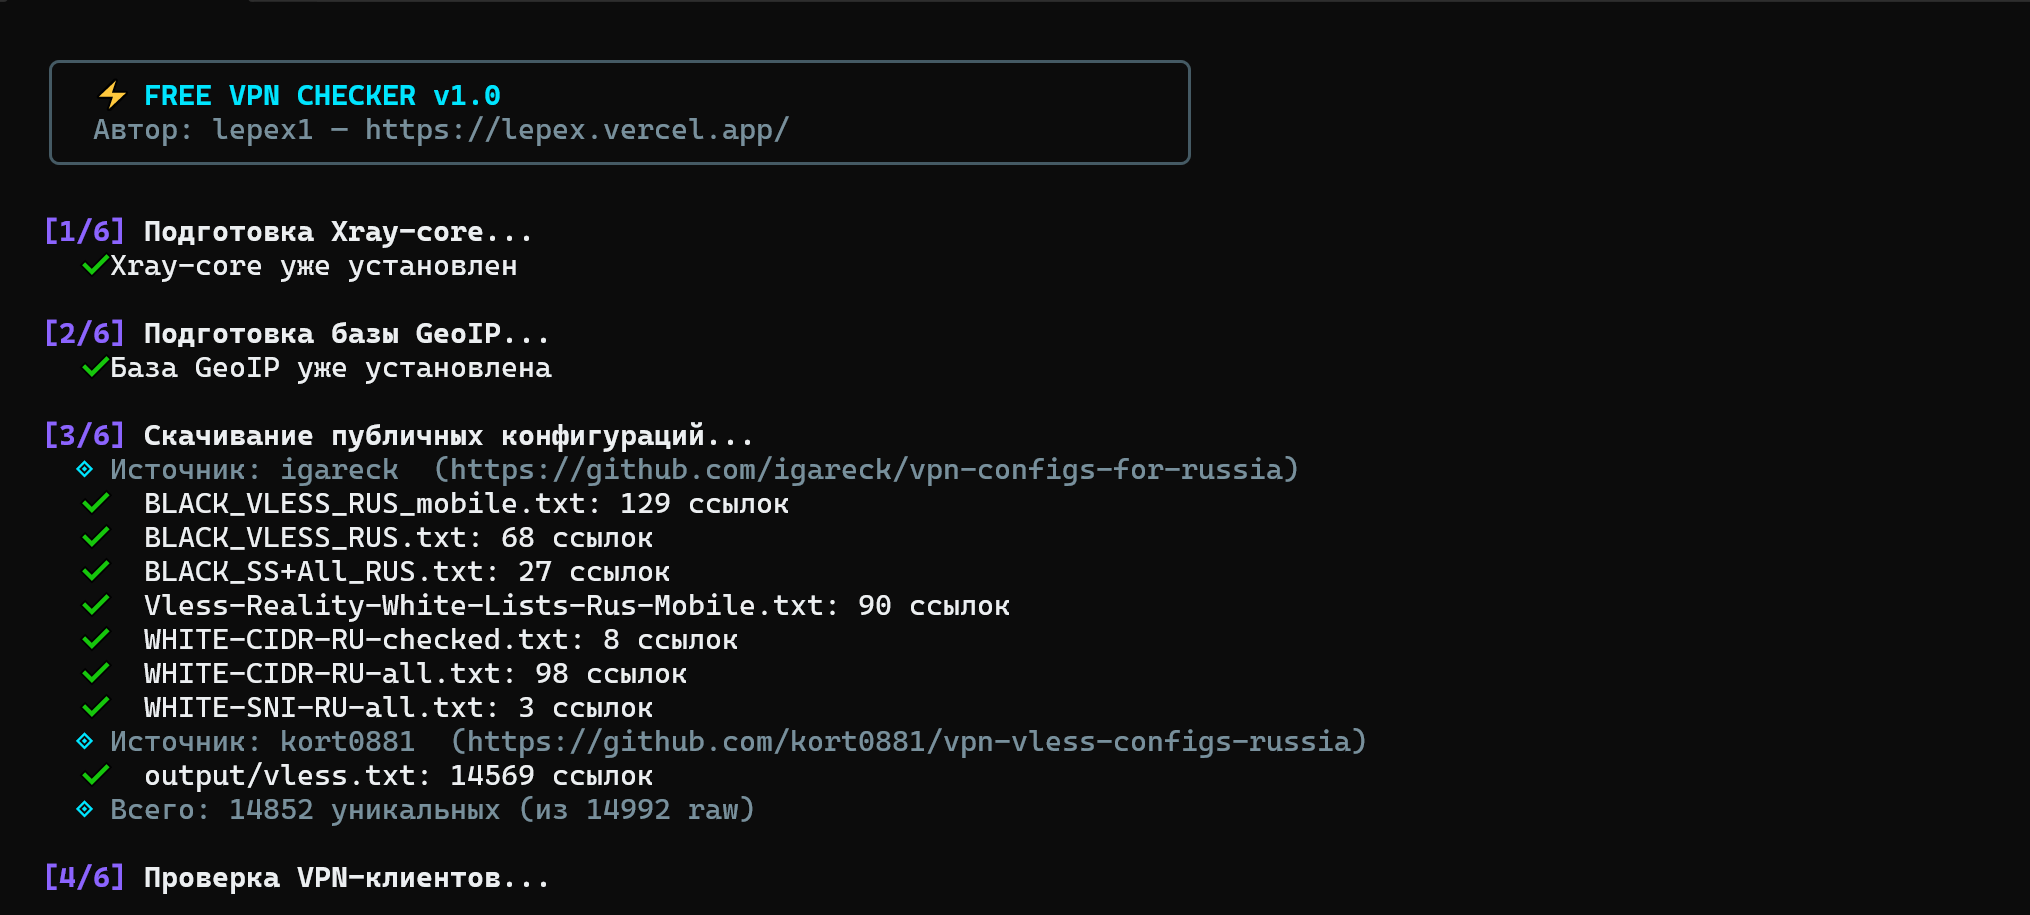
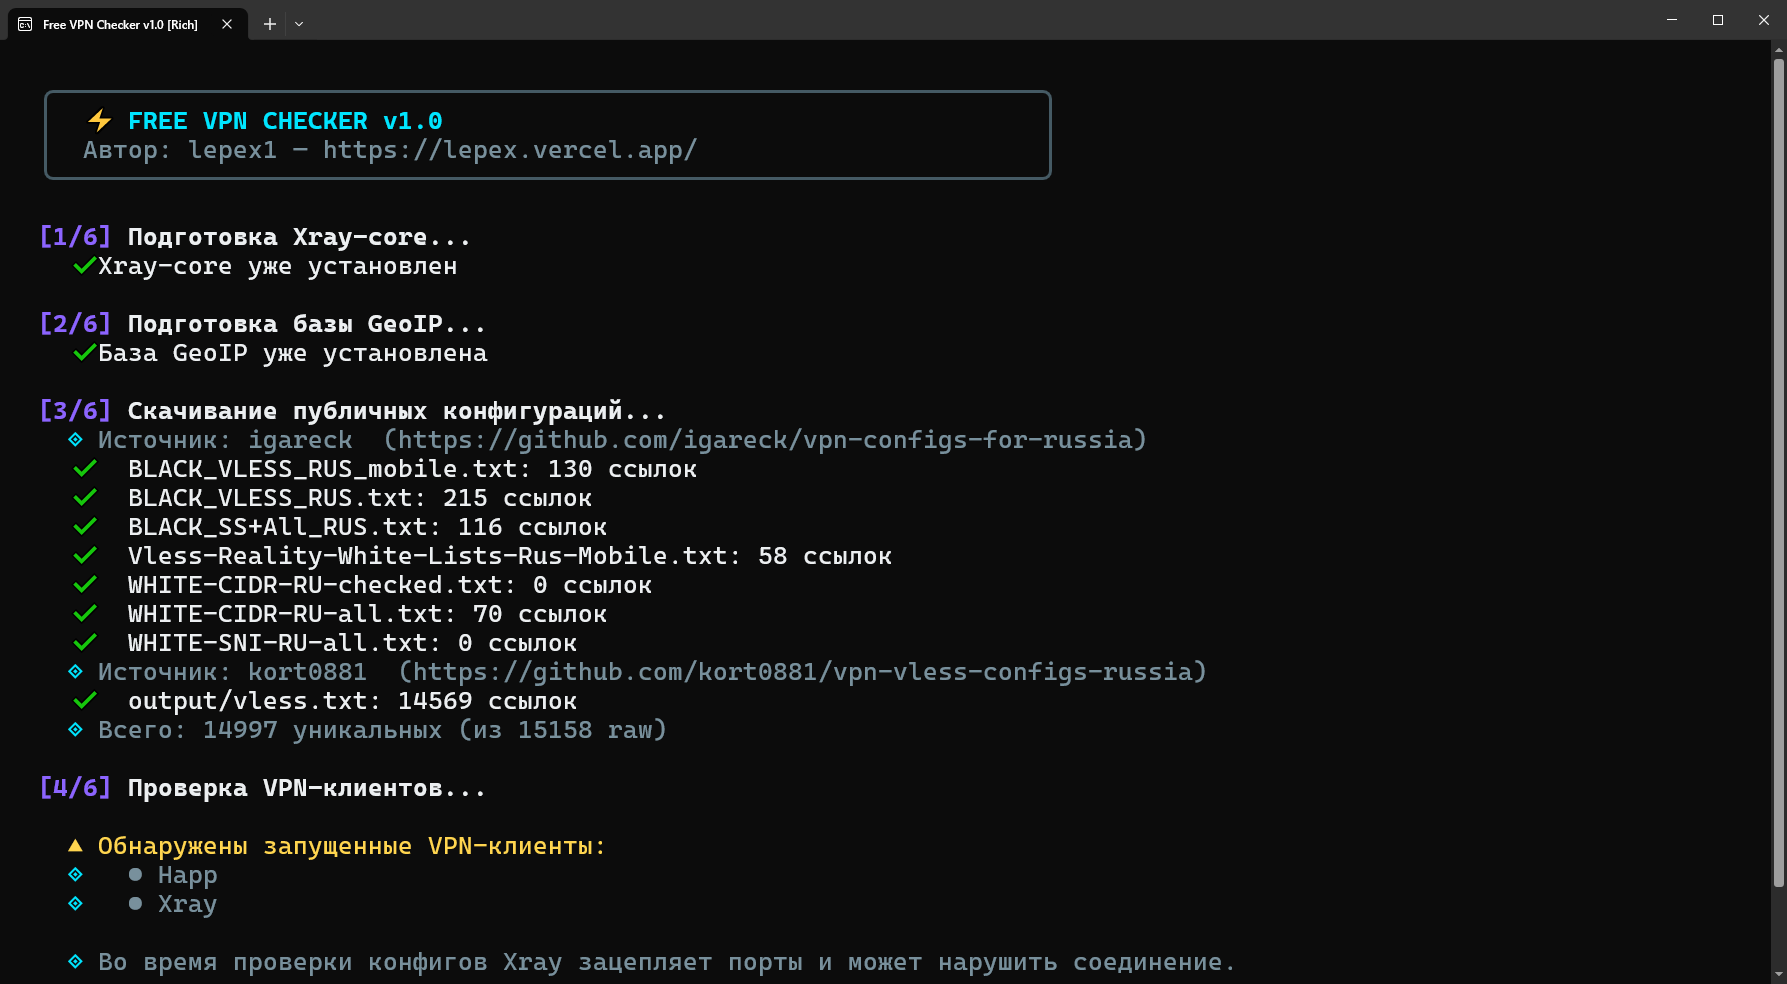
docs: refresh public readme presentation

Changed region(s): [[0.0, 0.2142, 0.6771, 1.0], [0.0, 0.0, 1.0, 1.0]]

diff --git a/README.md b/README.md
@@ -25,12 +25,12 @@
   <a href="https://lepex.vercel.app/portfolio/free-vpn-checker">Страница проекта</a>
 </p>
 
-<!--
-  ДЕМО-СЛОТ: записать assets/demo.gif (терминал, ширина ~960 px, до 5 МБ) и раскомментировать блок ниже.
+## Демонстрация
+
+<!-- ДЕМО-СЛОТ: записать assets/demo.gif (реальный запуск, до 5 МБ) и удалить этот комментарий. -->
 <p align="center">
-  <img src="assets/demo.gif" alt="Запись работы в терминале" width="880">
+  <img src="assets/demo.gif" alt="Демонстрация работы free-vpn-checker в терминале" width="880">
 </p>
--->
 
 ---
 
@@ -53,7 +53,7 @@
 ## Скриншот
 
 <p align="center">
-  <img src="assets/cli.png" alt="Работа free-vpn-checker в терминале" width="1000">
+  <img src="assets/cli.png" alt="Работа free-vpn-checker в терминале" width="893">
 </p>
 
 ---

diff --git a/README.en.md b/README.en.md
@@ -25,12 +25,12 @@
   <a href="https://lepex.vercel.app/portfolio/free-vpn-checker">Project page</a>
 </p>
 
-<!--
-  DEMO SLOT: record assets/demo.gif (terminal, ~960 px wide, up to 5 MB) and uncomment the block below.
+## Demo
+
+<!-- DEMO SLOT: record assets/demo.gif (real run, up to 5 MB) and remove this comment. -->
 <p align="center">
-  <img src="assets/demo.gif" alt="Terminal demo" width="880">
+  <img src="assets/demo.gif" alt="free-vpn-checker running in a terminal" width="880">
 </p>
--->
 
 ---
 
@@ -53,7 +53,7 @@ In test runs roughly **10–12 thousand servers stay alive out of ~16 thousand**
 ## Screenshot
 
 <p align="center">
-  <img src="assets/cli.png" alt="free-vpn-checker running in a terminal" width="1000">
+  <img src="assets/cli.png" alt="free-vpn-checker running in a terminal" width="893">
 </p>
 
 ---
